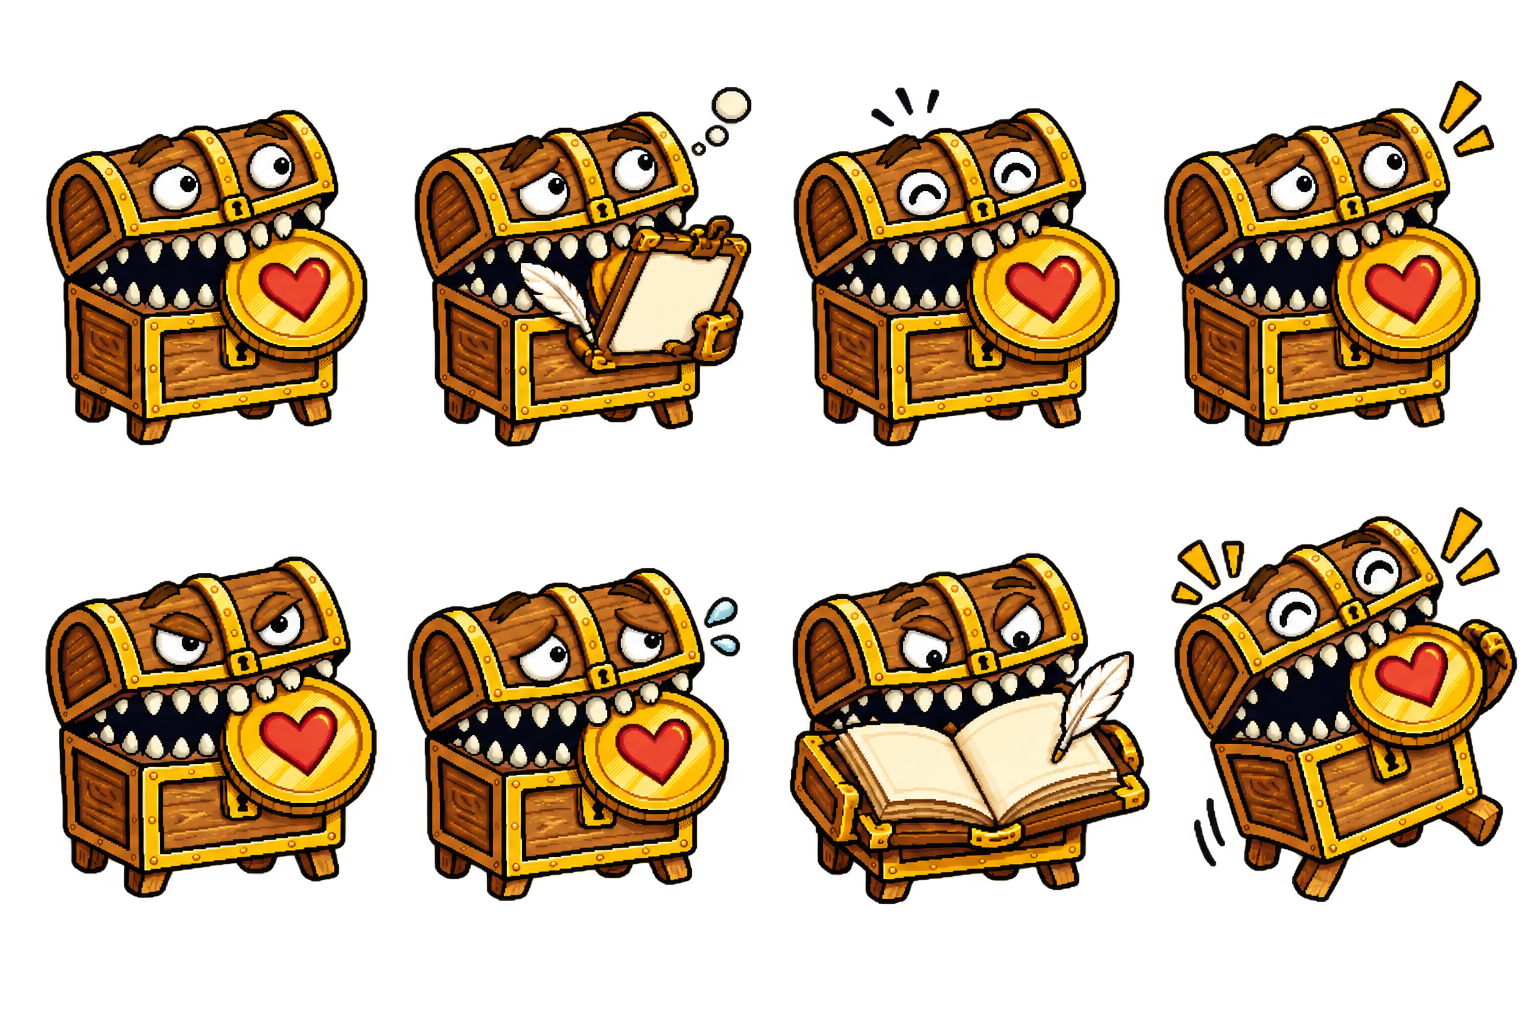
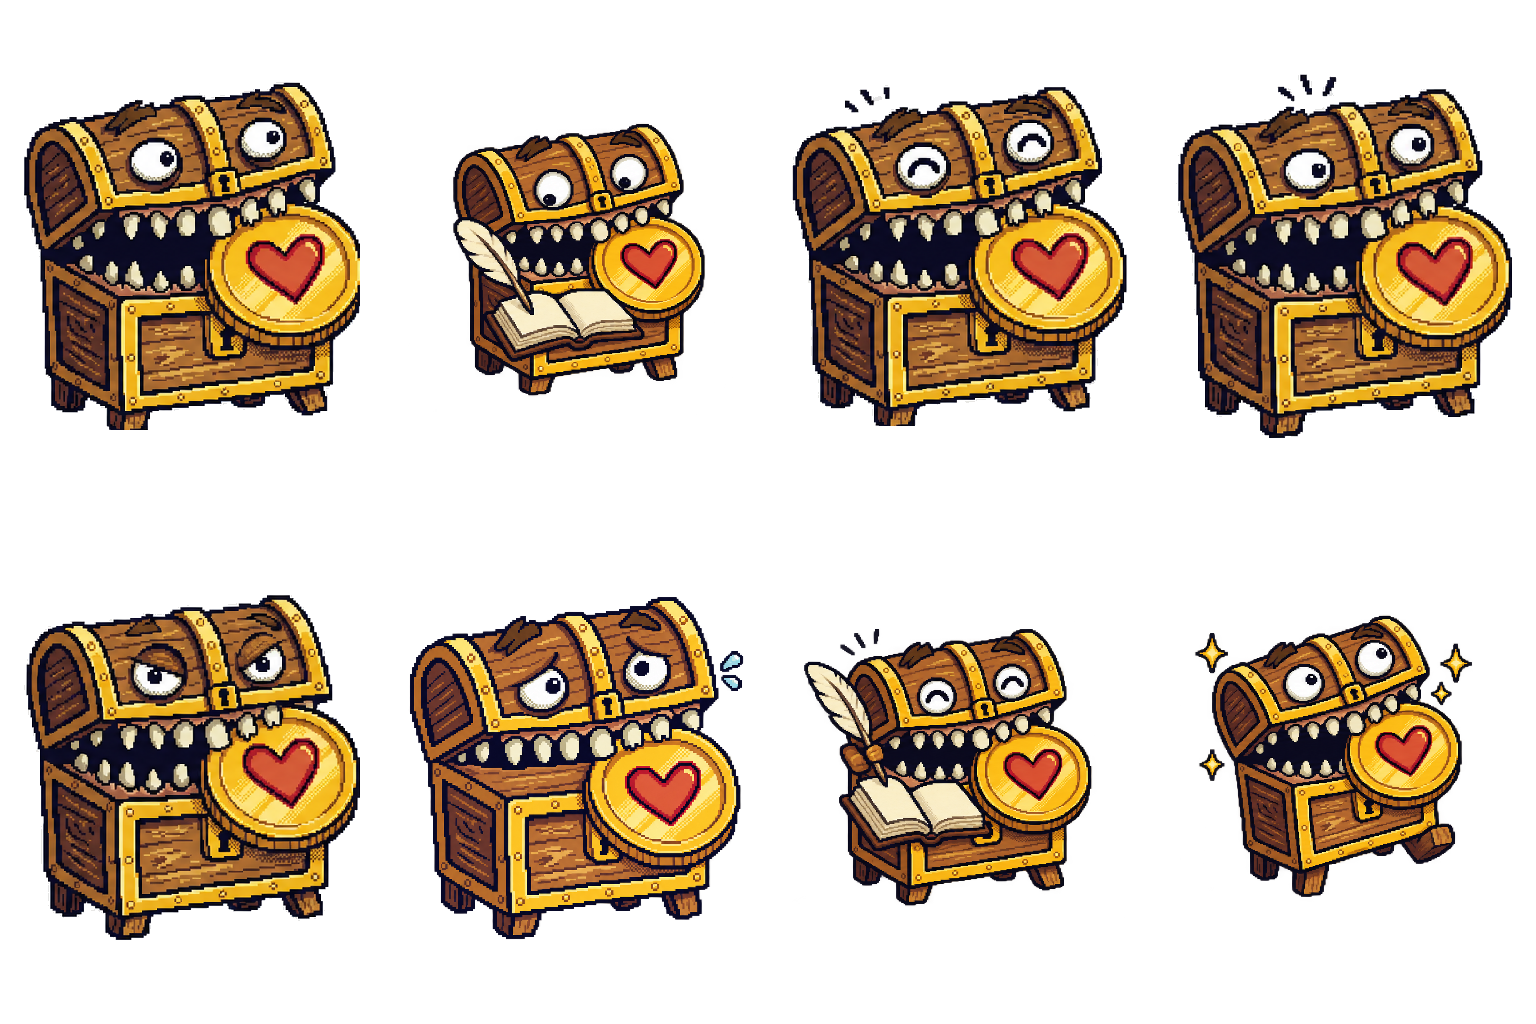
art(review): rebuild Mimiku calibration from sources

diff --git a/web/src/shared/brand/asset-style-gate.test.ts b/web/src/shared/brand/asset-style-gate.test.ts
@@ -88,11 +88,7 @@ describe("page visual asset style gate", () => {
       expect(family.sample.path.replaceAll("\\", "/")).not.toMatch(
         /^web\/public\//,
       );
-      expect(family.decision).toBe(
-        family.id === "mimiku-states"
-          ? "rejected/superseded"
-          : "awaiting-calibration",
-      );
+      expect(family.decision).toBe("awaiting-calibration");
     }
   });
 
@@ -117,6 +113,9 @@ describe("page visual asset style gate", () => {
         hasTransparentPixel(png),
         `${familyId} transparency expectation`,
       ).toBe(family!.sample.alpha);
+      if (familyId === "mimiku-states") {
+        expect(hasNonzeroTransparentPixel(png)).toBe(false);
+      }
       expect(family!.sample.sha256).toMatch(/^[a-f0-9]{64}$/);
       expect(createHash("sha256").update(image).digest("hex")).toBe(
         family!.sample.sha256,
@@ -181,9 +180,40 @@ describe("page visual asset style gate", () => {
     expect(html).toContain("1440");
   });
 
-  it("records the canonical Mimiku lineage before recalibration", async () => {
+  it("records canonical Mimiku lineage and replacement provenance", async () => {
     const audit = await readFile(assetLineageAuditPath, "utf8");
     const reviewIndex = await readFile(reviewIndexPath, "utf8");
+    const reviewDirectory = path.dirname(reviewManifestPath);
+    const rejectedSample = await readFile(
+      path.join(
+        reviewDirectory,
+        "samples",
+        "rejected",
+        "mimiku-states-calibration-1278f447.png",
+      ),
+    );
+    const derivedPoseBytes = await readFile(
+      path.join(
+        reviewDirectory,
+        "samples",
+        "derivations",
+        "mimiku-derived-poses.png",
+      ),
+    );
+    const derivedPoses = PNG.sync.read(derivedPoseBytes);
+    const concernedPoseBytes = await readFile(
+      path.join(
+        reviewDirectory,
+        "samples",
+        "derivations",
+        "mimiku-concerned-pose.png",
+      ),
+    );
+    const concernedPose = PNG.sync.read(concernedPoseBytes);
+    const composer = await readFile(
+      path.join(reviewDirectory, "compose-mimiku-calibration.mjs"),
+      "utf8",
+    );
 
     for (const source of [
       "docs/design/assets/sources/mimiku/mimiku-master.png",
@@ -206,12 +236,33 @@ describe("page visual asset style gate", () => {
     expect(audit).toContain("derive");
     expect(audit).toContain("new");
     expect(reviewIndex).toContain('data-family="mimiku-states"');
-    expect(reviewIndex).toContain("Rejected/superseded");
+    expect(reviewIndex).toContain(
+      "Awaiting calibration review — lineage baseline confirmed.",
+    );
     expect(reviewIndex).toContain("[data-live-caption] a {");
     expect(reviewIndex).toContain("[data-live-caption] a:focus-visible {");
     expect(reviewIndex).toContain("Decisions are recorded per family");
-    expect(reviewIndex).toContain("Mimiku superseded");
+    expect(reviewIndex).toContain("Mimiku replacement awaiting review");
     expect(reviewIndex).not.toContain("no decision is recorded yet");
+    expect(createHash("sha256").update(rejectedSample).digest("hex")).toBe(
[1 lines of base64/hex data omitted]
+    );
+    expect(derivedPoses.width).toBe(2172);
+    expect(derivedPoses.height).toBe(724);
+    expect(hasTransparentPixel(derivedPoses)).toBe(true);
+    expect(createHash("sha256").update(derivedPoseBytes).digest("hex")).toBe(
[1 lines of base64/hex data omitted]
+    );
+    expect(concernedPose.width).toBe(1254);
+    expect(concernedPose.height).toBe(1254);
+    expect(hasTransparentPixel(concernedPose)).toBe(true);
+    expect(createHash("sha256").update(concernedPoseBytes).digest("hex")).toBe(
[1 lines of base64/hex data omitted]
+    );
+    expect(composer).toContain("mimiku-idle.png");
+    expect(composer).toContain("mimiku-derived-poses.png");
+    expect(composer).toContain("mimiku-concerned-pose.png");
+    expect(composer).toContain("mimiku-states-calibration.png");
   });
 });
 
@@ -219,5 +270,20 @@ function hasTransparentPixel(png: PNG): boolean {
   for (let offset = 3; offset < png.data.length; offset += 4) {
     if (png.data[offset] < 255) return true;
   }
+  return false;
+}
+
+function hasNonzeroTransparentPixel(png: PNG): boolean {
+  for (let offset = 0; offset < png.data.length; offset += 4) {
+    if (
+      png.data[offset + 3] === 0 &&
+      (png.data[offset] !== 0 ||
+        png.data[offset + 1] !== 0 ||
+        png.data[offset + 2] !== 0)
+    ) {
+      return true;
+    }
+  }
+
   return false;
 }

diff --git a/docs/design/assets/reviews/2026-09-18-page-visual-phase-1/review-index.html b/docs/design/assets/reviews/2026-09-18-page-visual-phase-1/review-index.html
@@ -260,7 +260,7 @@
       <ul class="metadata" aria-label="Review metadata">
         <li>Baseline a157a83</li>
         <li>Viewports 320 · 390 · 768 · 1440</li>
-        <li>Status Gate A pending · Mimiku superseded</li>
+        <li>Status Gate A pending · Mimiku replacement awaiting review</li>
       </ul>
     </header>
 
@@ -312,11 +312,11 @@
       <section data-family="mimiku-states">
         <h2>Mimiku states and actions</h2>
         <p data-family-description>
-          This independently generated sheet is retained only as rejected review
-          evidence. The canonical model sheet and six runtime states remain the
-          visual authority for a future replacement.
+          Source-constrained replacement. Row one: reused Idle, derived Working,
+          reused Happy, reused Reminder. Row two: reused Serious, derived Concerned,
+          derived record-ledger, derived adventure-complete.
         </p>
-        <p class="review-status" data-review-status>Rejected/superseded — do not use as a visual reference.</p>
+        <p class="review-status" data-review-status>Awaiting calibration review — lineage baseline confirmed.</p>
         <div class="backdrops">
           <figure class="backdrop" data-backdrop="navy">
             <img src="samples/mimiku-states-calibration.png" alt="Mimiku state calibration on navy" onerror="markUnavailable(this)" />

diff --git a/docs/design/assets/reviews/2026-09-18-page-visual-phase-1/asset-lineage-audit.md b/docs/design/assets/reviews/2026-09-18-page-visual-phase-1/asset-lineage-audit.md
@@ -3,7 +3,7 @@
 **Audit scope:** Mimiku visual companion only  
 **Design baseline:** `a157a83`  
 **Audit date:** 2026-09-18  
-**Gate state:** Mimiku calibration is `rejected/superseded`; no replacement sample has been generated.
+**Gate state:** lineage baseline confirmed; source-constrained replacement is `awaiting-calibration`.
 
 This audit restores the repository's existing Mimiku artwork as the visual
 authority for Phase 1. A text prompt may describe semantics, but it may not
@@ -63,11 +63,25 @@ whose character body remains source-derived.
 
 | Asset | Hash | Decision | Evidence |
 |---|---|---|---|
[2 lines of base64/hex data omitted]
 
-The rejected file remains only as auditable review evidence. It is not an
+The archived rejected file remains only as auditable review evidence. It is not an
 approved visual reference, must not seed later image generation, and must not
 be promoted to runtime or complete-family staging.
+
+## Replacement calibration candidate
+
+| Artifact | Dimensions | SHA-256 | Role |
+|---|---:|---|---|
[2 lines of base64/hex data omitted]
+| `docs/design/assets/reviews/2026-09-18-page-visual-phase-1/compose-mimiku-calibration.mjs` | deterministic script | n/a | Reuses canonical runtime pixels, removes export-edge artifacts, clears transparent RGB, and composes the review sheet |
[1 lines of base64/hex data omitted]
+
+Contact-sheet order is fixed. Row one is Idle (`reuse`), Working (`derive`),
+Happy (`reuse`), Reminder (`reuse`). Row two is Serious (`reuse`), Concerned
+(`derive`), record-ledger (`derive`), and adventure-complete (`derive`). No text
+or operational/financial fact is baked into the image.
 
 ## Required comparison for the replacement sample
 
@@ -81,5 +95,6 @@ Before a replacement is eligible for review, its contact sheet must show:
 6. exact source paths, output dimensions, alpha result, and SHA-256;
 7. no baked labels, amounts, dates, names, statuses, or action text.
 
-Replacement generation remains blocked until this lineage is accepted as the
-correct calibration baseline.
+The lineage baseline was confirmed on 2026-09-18. Complete-family generation
+remains blocked until the replacement calibration sample receives explicit
+visual approval.

diff --git a/.agents/devlog.md b/.agents/devlog.md
@@ -1229,3 +1229,15 @@
 - Linked the audit from the review page with contrast-safe keyboard focus styling and updated the four viewport baselines.
 **Decisions:** Existing Mimiku master/model/state/runtime art remains the visual authority. No replacement image was generated and no production/runtime asset was changed.
 **Known gaps / follow-ups:** Await approval of the lineage baseline before producing a replacement Mimiku calibration. Wordmark and the other six families remain separately awaiting calibration.
+
+## 2026-09-18 — Rebuild Mimiku calibration from canonical sources
+
+**Task:** Produce one replacement Mimiku Gate A sample after approval of the existing visual-companion lineage.
+**Scope:** Review-only Mimiku archive, derived poses, deterministic composer, manifest/decision/audit records, review index, asset contract, and four viewport screenshots.
+**What changed:**
+- Archived the rejected independently generated sheet by exact hash instead of using it as an image-generation reference.
+- Reused canonical Idle, Happy, Reminder, and Serious pixels; derived Working, Concerned, record-ledger, and adventure-complete only from the approved master/model/state/runtime sources.
+- Added a deterministic 1536 × 1024 transparent contact-sheet composer that removes only small export-edge artifacts and clears RGB beneath fully transparent pixels.
+- Locked rejected, derived, and final sample hashes in the focused contract and refreshed the review-only screenshots.
+**Decisions:** The lineage baseline remains authoritative. The replacement is `awaiting-calibration` and is not approved for complete-family generation or runtime promotion.
+**Known gaps / follow-ups:** Await explicit visual approval or corrections for the replacement Mimiku sample before reviewing another family.

diff --git a/docs/design/assets/reviews/2026-09-18-page-visual-phase-1/decision-log.md b/docs/design/assets/reviews/2026-09-18-page-visual-phase-1/decision-log.md
@@ -15,7 +15,7 @@ Changing a sample changes its hash, invalidates any prior approval, and returns 
 |---|---|---|---|---|
[1 lines of base64/hex data omitted]
 | icons |  |  |  |  |
[2 lines of base64/hex data omitted]
 | avatar-classes |  |  |  |  |
 | scenes |  |  |  |  |
 | frames |  |  |  |  |
